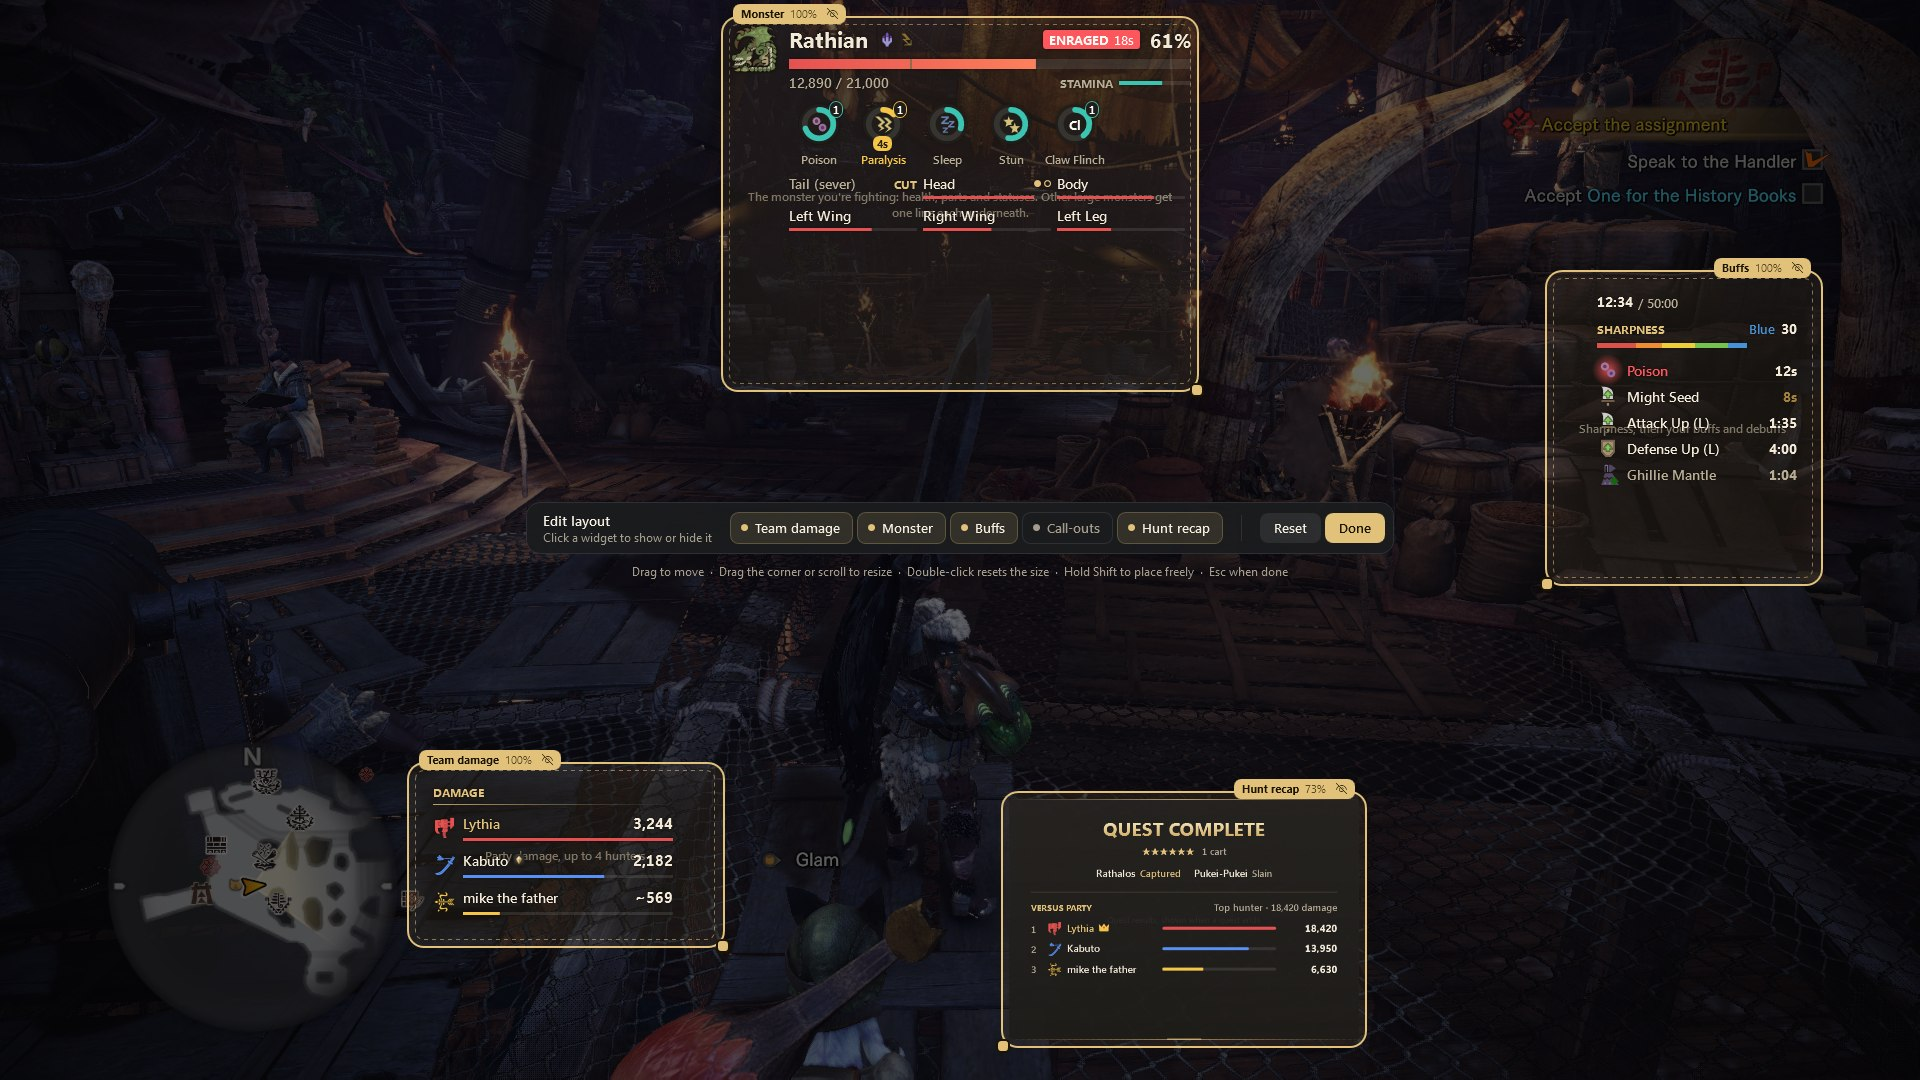
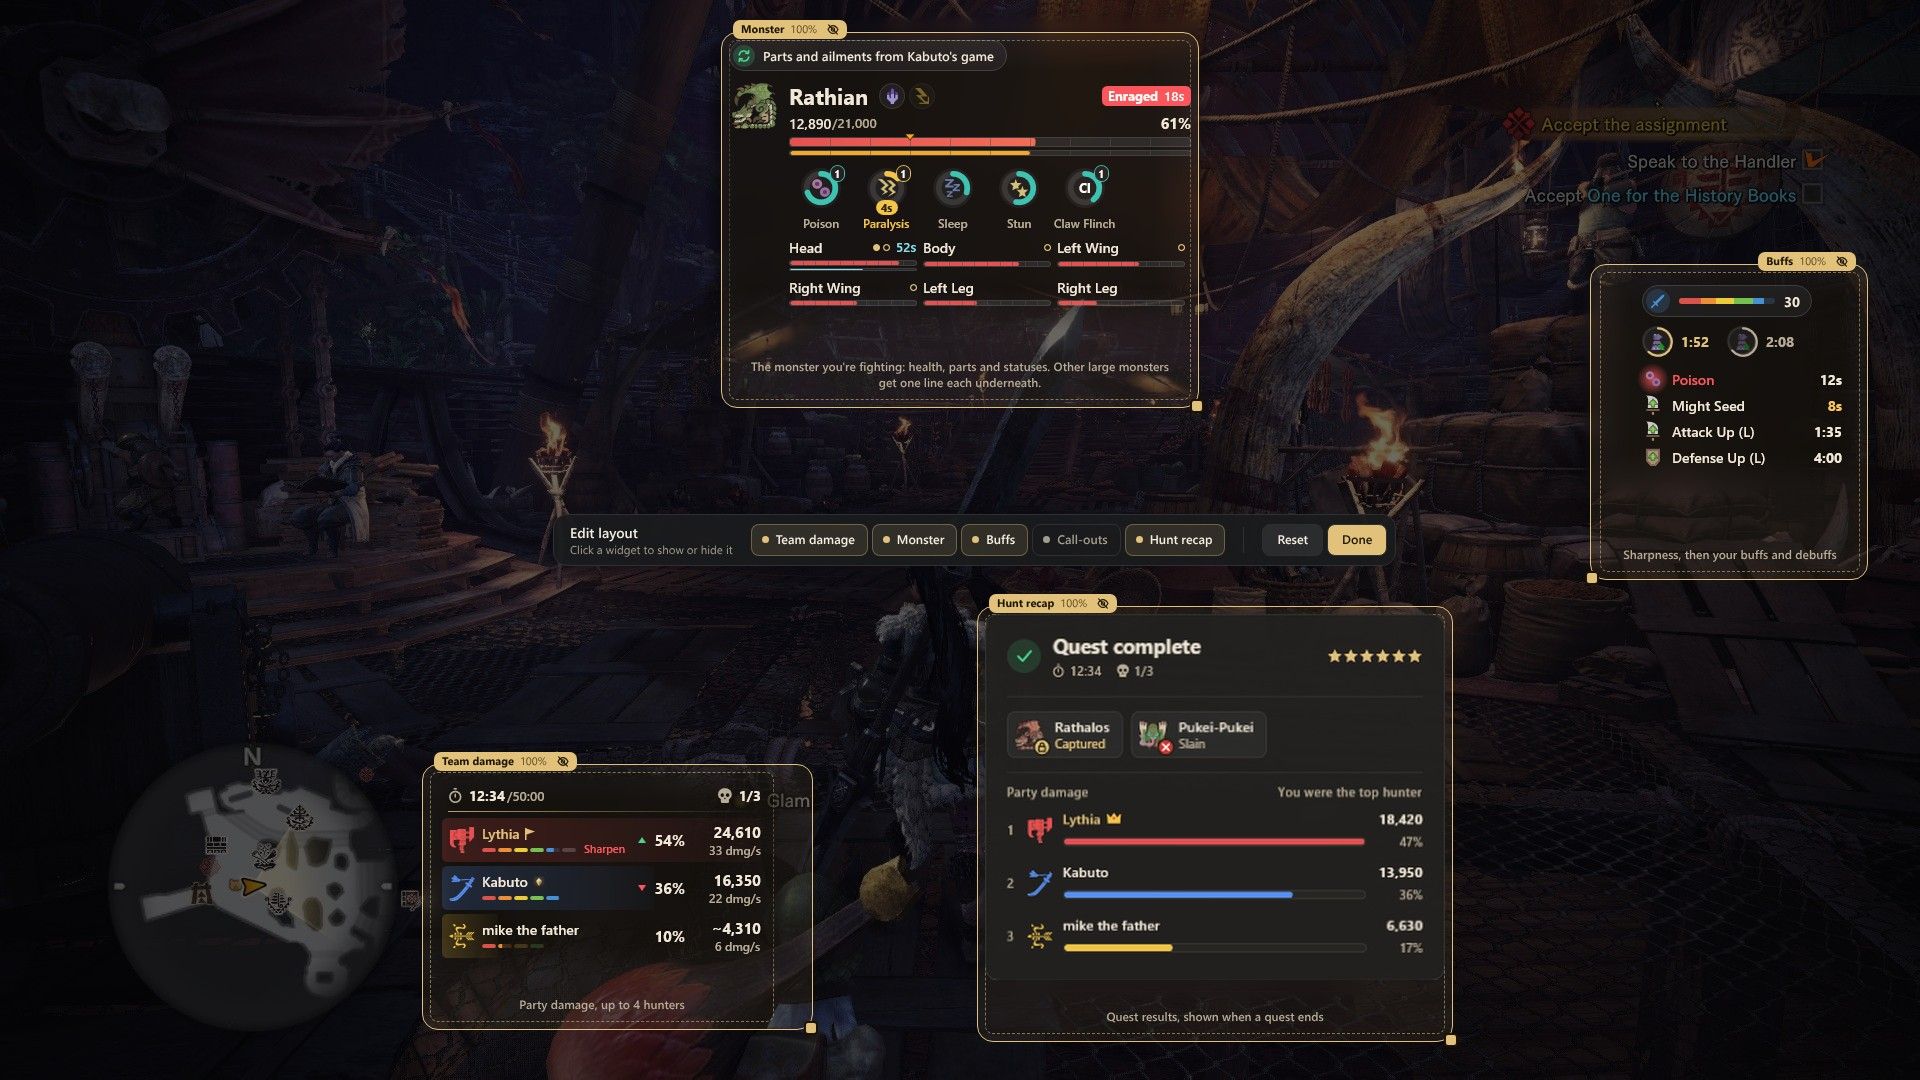
Sync notice and Buffs sharpness as compact pills, Senji in the sharpen roasts, refreshed screenshots

diff --git a/SmartHunter/Ui/Resources/Default.xaml b/SmartHunter/Ui/Resources/Default.xaml
@@ -834,6 +834,9 @@
     <!--Team Widget: one row per hunter, drawn straight onto the game. After HunterPie's damage meter: weapon, name, the share with an arrow for where it's heading, damage and damage per second. The row fills with the
         hunter's colour as far as their damage reaches against the top hunter.-->
 
+    <!--Two arrows chasing each other (synced) and an exclamation mark (estimate), drawn as strokes in a 14px box-->
+    <Geometry x:Key="G_Sync">M2.2,6 A5,5 0 0 1 11.3,4.2 M11.8,1.6 L11.5,4.5 L8.6,4.2 M11.8,8 A5,5 0 0 1 2.7,9.8 M2.2,12.4 L2.5,9.5 L5.4,9.8</Geometry>
+    <Geometry x:Key="G_Alert">M7,3 L7,8 M7,10.9 L7,11</Geometry>
     <Geometry x:Key="G_Stopwatch">M6.5,0.5 L9.5,0.5 L9.5,2 L6.5,2 Z M8,3 A6,6 0 1 1 7.99,3 Z M8,4.6 A4.4,4.4 0 1 0 8.01,4.6 Z M7.3,6 L8.7,6 L8.7,9.6 L7.3,9.6 Z</Geometry>
     <GeometryGroup x:Key="G_Skull" FillRule="EvenOdd">
         <PathGeometry Figures="M8,1 C4.2,1 1.6,3.6 1.6,7 C1.6,9.1 2.6,10.6 4.2,11.5 L4.2,13.8 C4.2,14.5 4.7,15 5.4,15 L10.6,15 C11.3,15 11.8,14.5 11.8,13.8 L11.8,11.5 C13.4,10.6 14.4,9.1 14.4,7 C14.4,3.6 11.8,1 8,1 Z" />
@@ -1194,25 +1197,20 @@
         </DataTemplate.Triggers>
     </DataTemplate>
 
-    <!--Sharpness: the game's colour bands, hits left in the current colour-->
+    <!--Sharpness as one pill, the size of the mantle rings: a blade in the current colour, the game's colour bands, and
+        hits left in this colour. The number turns amber while the colour runs out and the pill red once you've dropped
+        below this weapon's best colour.-->
+    <Geometry x:Key="G_Blade">M14.5,1.5 L13.7,4.1 L6.9,10.9 L5.1,9.1 L11.9,2.3 Z M3.85,7.63 L8.37,12.15 L7.31,13.21 L2.79,8.69 Z M5.58,11.48 L3.13,13.93 L2.07,12.87 L4.52,10.42 Z M1,13.9 A1.1,1.1 0 1 1 3.2,13.9 A1.1,1.1 0 1 1 1,13.9 Z</Geometry>
     <DataTemplate DataType="{x:Type data:Sharpness}">
-        <StackPanel x:Name="Root" Margin="0 0 0 8">
-            <DockPanel LastChildFill="False">
-                <controls:SharpText x:Name="Label" Text="Sharpness" Style="{StaticResource T_Label}" />
-                <controls:SharpText DockPanel.Dock="Right" Style="{StaticResource T_Value}" MinWidth="0" Text="{Binding HitsLeft}" />
-                <controls:SharpText DockPanel.Dock="Right" Style="{StaticResource T_Muted}" Foreground="{Binding LevelBrush}" Margin="0 0 6 0" Text="{Binding LevelName}" />
-            </DockPanel>
-            <Grid x:Name="Bar" Width="150" Height="6" Margin="0 5 0 0" HorizontalAlignment="Left" behaviors:RoundClip.Radius="-1">
-                <ItemsControl ItemsSource="{Binding Segments}" Opacity="0.22">
-                    <ItemsControl.ItemsPanel>
-                        <ItemsPanelTemplate><StackPanel Orientation="Horizontal" /></ItemsPanelTemplate>
-                    </ItemsControl.ItemsPanel>
-                    <ItemsControl.ItemTemplate>
-                        <DataTemplate><Rectangle Width="{Binding Width}" Height="6" Fill="{Binding Brush}" /></DataTemplate>
-                    </ItemsControl.ItemTemplate>
-                </ItemsControl>
-                <Canvas Width="{Binding FilledWidth}" HorizontalAlignment="Left" ClipToBounds="True">
-                    <ItemsControl ItemsSource="{Binding Segments}">
+        <Border x:Name="Root" HorizontalAlignment="Left" Margin="0 0 0 8" Padding="3 3 11 3" CornerRadius="16"
+                Background="#CC101114" BorderBrush="{StaticResource B_GaugeBorder}" BorderThickness="1">
+            <StackPanel Orientation="Horizontal">
+                <Grid Width="24" Height="24">
+                    <Ellipse x:Name="Disc" Fill="{Binding LevelBrush}" Opacity="0.2" />
+                    <Path x:Name="Blade" Data="{StaticResource G_Blade}" Fill="{Binding LevelBrush}" Width="16" Height="16" HorizontalAlignment="Center" VerticalAlignment="Center" />
+                </Grid>
+                <Grid x:Name="Bar" Width="{x:Static data:Sharpness.BarWidth}" Height="6" Margin="9 0 0 0" VerticalAlignment="Center" behaviors:RoundClip.Radius="-1">
+                    <ItemsControl ItemsSource="{Binding Segments}" Opacity="0.22">
                         <ItemsControl.ItemsPanel>
                             <ItemsPanelTemplate><StackPanel Orientation="Horizontal" /></ItemsPanelTemplate>
                         </ItemsControl.ItemsPanel>
@@ -1220,15 +1218,31 @@
                             <DataTemplate><Rectangle Width="{Binding Width}" Height="6" Fill="{Binding Brush}" /></DataTemplate>
                         </ItemsControl.ItemTemplate>
                     </ItemsControl>
-                </Canvas>
-            </Grid>
-            <controls:SharpText x:Name="Danger" Text="Sharpen" Style="{StaticResource T_Label}" Foreground="{StaticResource B_Danger}" Margin="0 4 0 0" Visibility="Collapsed" />
-        </StackPanel>
+                    <Canvas Width="{Binding FilledWidth}" HorizontalAlignment="Left" ClipToBounds="True">
+                        <ItemsControl ItemsSource="{Binding Segments}">
+                            <ItemsControl.ItemsPanel>
+                                <ItemsPanelTemplate><StackPanel Orientation="Horizontal" /></ItemsPanelTemplate>
+                            </ItemsControl.ItemsPanel>
+                            <ItemsControl.ItemTemplate>
+                                <DataTemplate><Rectangle Width="{Binding Width}" Height="6" Fill="{Binding Brush}" /></DataTemplate>
+                            </ItemsControl.ItemTemplate>
+                        </ItemsControl>
+                    </Canvas>
+                </Grid>
+                <controls:SharpText x:Name="Hits" Style="{StaticResource T_Value}" MinWidth="0" Margin="9 0 0 0" Text="{Binding HitsLeft}" />
+                <controls:SharpText x:Name="Danger" Text="Sharpen" Style="{StaticResource T_Value}" MinWidth="0" Foreground="{StaticResource B_Danger}" Margin="8 0 0 0" Visibility="Collapsed" />
+            </StackPanel>
+        </Border>
         <DataTemplate.Triggers>
             <DataTrigger Binding="{Binding IsAvailable}" Value="False">
                 <Setter TargetName="Root" Property="Visibility" Value="Collapsed" />
             </DataTrigger>
+            <DataTrigger Binding="{Binding IsLow}" Value="True">
+                <Setter TargetName="Hits" Property="Foreground" Value="{StaticResource B_Warn}" />
+            </DataTrigger>
             <DataTrigger Binding="{Binding NeedsSharpening}" Value="True">
+                <Setter TargetName="Root" Property="BorderBrush" Value="{StaticResource B_Danger}" />
+                <Setter TargetName="Hits" Property="Foreground" Value="{StaticResource B_Danger}" />
                 <Setter TargetName="Danger" Property="Visibility" Value="Visible" />
                 <DataTrigger.EnterActions>
                     <BeginStoryboard x:Name="Sharpen" Storyboard="{StaticResource A_Storyboard_Danger}" />
@@ -1236,9 +1250,6 @@
                 <DataTrigger.ExitActions>
                     <StopStoryboard BeginStoryboardName="Sharpen" />
                 </DataTrigger.ExitActions>
-            </DataTrigger>
-            <DataTrigger Binding="{Binding IsLow}" Value="True">
-                <Setter TargetName="Label" Property="Foreground" Value="{StaticResource B_Warn}" />
             </DataTrigger>
         </DataTemplate.Triggers>
     </DataTemplate>
@@ -1261,11 +1272,20 @@
             </Grid.Resources>
             <Border x:Name="Scrim" Background="{StaticResource B_Scrim}" Opacity="{Binding ShadeOpacity, Source={x:Static viewModels:OverlayViewModel.Instance}}" OpacityMask="{StaticResource B_ScrimFeather}" Margin="-24 -12 -24 -12" />
             <StackPanel>
-                <Border x:Name="Notice" Width="462" HorizontalAlignment="Left" Margin="0 0 0 10" Padding="12 8 12 8" CornerRadius="8"
-                        Background="#EB101114" BorderBrush="{StaticResource B_Accent}" BorderThickness="1" Visibility="Collapsed">
+                <!--Where the monster numbers come from: a small pill like the mantle rings, green while they come from the
+                    host's game (or you're the host), amber while they're only your game's estimate-->
+                <Border x:Name="Notice" HorizontalAlignment="Left" MaxWidth="462" Margin="0 0 0 10" Padding="3 3 12 3" CornerRadius="15"
+                        Background="#CC101114" BorderBrush="{StaticResource B_GaugeBorder}" BorderThickness="1" Visibility="Collapsed">
+                    <Border.RenderTransform>
+                        <TranslateTransform />
+                    </Border.RenderTransform>
                     <DockPanel>
-                        <controls:SharpText Text="Sync" Style="{StaticResource T_Label}" Foreground="{StaticResource B_Accent}" DockPanel.Dock="Left" VerticalAlignment="Top" Margin="0 1 10 0" />
-                        <controls:SharpText Text="{Binding Notice}" Style="{StaticResource T_Body}" TextWrapping="Wrap" />
+                        <Grid DockPanel.Dock="Left" Width="22" Height="22" VerticalAlignment="Top" Margin="0 0 8 0">
+                            <Ellipse x:Name="NoticeDisc" Fill="{StaticResource B_Up}" Opacity="0.2" />
+                            <Path x:Name="NoticeIcon" Data="{StaticResource G_Sync}" Stroke="{StaticResource B_Up}" StrokeThickness="1.5" Width="14" Height="14"
+                                  StrokeStartLineCap="Round" StrokeEndLineCap="Round" StrokeLineJoin="Round" HorizontalAlignment="Center" VerticalAlignment="Center" />
+                        </Grid>
+                        <controls:SharpText Text="{Binding Notice}" Style="{StaticResource T_Body}" FontSize="13" TextWrapping="Wrap" Margin="0 3 0 3" />
                     </DockPanel>
                 </Border>
                 <ItemsControl x:Name="MonstersControl" ItemsSource="{Binding Source={StaticResource CollectionViewSource}}" />
@@ -1277,6 +1297,20 @@
             </Trigger>
             <DataTrigger Binding="{Binding Notice, Converter={StaticResource A_Converter_IsNotNull}}" Value="True">
                 <Setter TargetName="Notice" Property="Visibility" Value="Visible" />
+                <DataTrigger.EnterActions>
+                    <BeginStoryboard>
+                        <Storyboard>
+                            <DoubleAnimation Storyboard.TargetName="Notice" Storyboard.TargetProperty="Opacity" From="0" To="1" Duration="0:0:0.22" EasingFunction="{StaticResource E_Out}" />
+                            <DoubleAnimation Storyboard.TargetName="Notice" Storyboard.TargetProperty="(UIElement.RenderTransform).(TranslateTransform.Y)" From="-4" To="0" Duration="0:0:0.26" EasingFunction="{StaticResource E_Out}" />
+                        </Storyboard>
+                    </BeginStoryboard>
+                </DataTrigger.EnterActions>
+            </DataTrigger>
+            <DataTrigger Binding="{Binding IsNoticeWarning}" Value="True">
+                <Setter TargetName="NoticeDisc" Property="Fill" Value="{StaticResource B_Warn}" />
+                <Setter TargetName="NoticeIcon" Property="Data" Value="{StaticResource G_Alert}" />
+                <Setter TargetName="NoticeIcon" Property="Stroke" Value="{StaticResource B_Warn}" />
+                <Setter TargetName="NoticeIcon" Property="StrokeThickness" Value="1.8" />
             </DataTrigger>
             <!--Nothing to show: no shade either-->
             <DataTrigger Binding="{Binding HasVisibleMonsters}" Value="False">

diff --git a/SmartHunter/Game/Data/SharpenAlert.cs b/SmartHunter/Game/Data/SharpenAlert.cs
@@ -4,7 +4,7 @@ using SmartHunter.Core.Data;
 namespace SmartHunter.Game.Data
 {
     // A friend's weapon kept running at red and orange mid-hunt, and the small bar was never enough. For the hunter whose
-    // character is named Senji (the roasts call him Simeon, his real name), sharpness that is far below what the weapon reaches puts a huge bar and a roast at the top of the screen
+    // character is named Senji, sharpness that is far below what the weapon reaches puts a huge bar and a roast at the top of the screen
     // (SharpenAlertWindow) until he sharpens. It's a gag: impossible to miss, impossible to sit through, and it gets
     // meaner the longer he ignores it, while the click-through window leaves the game playable underneath.
     // Hardcoded on purpose; it only ever looks at the local player's own name.
@@ -34,14 +34,14 @@ namespace SmartHunter.Game.Data
         public const int SecondsPerStage = 20;
         static readonly string[] Headlines =
         {
-            "SIMEON. YOUR WEAPON IS A SPOON.",
-            "THE MONSTER IS LAUGHING AT YOU, SIMEON.",
-            "SIMEON'S WEAPON HAS FILED A COMPLAINT.",
-            "THIS IS AN INTERVENTION, SIMEON.",
-            "THAT'S NOT A WEAPON, SIMEON, THAT'S A VIBE.",
-            "WE CAN HEAR THE BONK FROM HERE, SIMEON.",
-            "BREAKING NEWS: SIMEON FORGETS WHETSTONE (AGAIN).",
-            "SIMEON, YOU ARE HITTING IT WITH A BUTTER KNIFE.",
+            "SENJI. YOUR WEAPON IS A SPOON.",
+            "THE MONSTER IS LAUGHING AT YOU, SENJI.",
+            "SENJI'S WEAPON HAS FILED A COMPLAINT.",
+            "THIS IS AN INTERVENTION, SENJI.",
+            "THAT'S NOT A WEAPON, SENJI, THAT'S A VIBE.",
+            "WE CAN HEAR THE BONK FROM HERE, SENJI.",
+            "BREAKING NEWS: SENJI FORGETS WHETSTONE (AGAIN).",
+            "SENJI, YOU ARE HITTING IT WITH A BUTTER KNIFE.",
         };
         static readonly string[] Escalation =
         {
@@ -49,7 +49,7 @@ namespace SmartHunter.Game.Data
             "Still going? The bar says no.",
             "Your teammates can see this bar too, you know.",
             "The monster sent a thank-you note.",
-            "Simeon. Please. The bar is begging.",
+            "Senji. Please. The bar is begging.",
             "At this point it's a bit. Sharpen anyway.",
         };
 

diff --git a/SmartHunter/Game/Helpers/MhwHelper.cs b/SmartHunter/Game/Helpers/MhwHelper.cs
@@ -1149,7 +1149,7 @@ namespace SmartHunter.Game.Helpers
                 if (sync && game.playersCheckDone)
                 {
                     kind = "host";
-                    text = "You're the host. Sharing monster data with your party.";
+                    text = "You're the host, sharing monster data with your party";
                 }
             }
             else
@@ -1168,7 +1168,7 @@ namespace SmartHunter.Game.Helpers
                         leader.UsesAether = true;
                     }
                     kind = "synced";
-                    text = $"Getting parts and ailments from {host}'s game.";
+                    text = $"Parts and ailments from {host}'s game";
                     s_SyncedKey = game.key;
                 }
                 // Once the host's data came through in this lobby, stay quiet: a calm minute with no part changes
@@ -1181,8 +1181,8 @@ namespace SmartHunter.Game.Helpers
                     kind = "estimate";
                     seconds = 12;
                     text = sync
-                        ? $"{host} isn't sharing data (they need Aether with party sync on). Parts and ailments are your game's estimate and can be off."
-                        : "Party sync is off, so parts and ailments are your game's estimate and can be off. Turn it on in Settings > Party sync.";
+                        ? $"{host} isn't syncing, so parts and ailments are estimates. They need Aether with party sync on."
+                        : "Party sync is off, so parts and ailments are estimates. Turn it on in Settings > Party sync.";
                 }
             }
 
@@ -1190,7 +1190,7 @@ namespace SmartHunter.Game.Helpers
             if (kind != null && key != s_NoticeKey)
             {
                 s_NoticeKey = key;
-                context.ShowNotice(text, seconds);
+                context.ShowNotice(text, seconds, kind == "estimate");
                 Log.WriteLine(text);
             }
         }

diff --git a/SmartHunter/Game/Data/WidgetContexts/MonsterWidgetContext.cs b/SmartHunter/Game/Data/WidgetContexts/MonsterWidgetContext.cs
@@ -75,11 +75,19 @@ namespace SmartHunter.Game.Data.WidgetContexts
             get { return m_Notice; }
             private set { SetProperty(ref m_Notice, value); }
         }
-        // Its own timer, so the banner always goes away even when nothing else updates the widget
+        // The data is only your game's estimate: the pill turns amber instead of green
+        bool m_IsNoticeWarning;
+        public bool IsNoticeWarning
+        {
+            get { return m_IsNoticeWarning; }
+            private set { SetProperty(ref m_IsNoticeWarning, value); }
+        }
+        // Its own timer, so the notice always goes away even when nothing else updates the widget
         System.Windows.Threading.DispatcherTimer m_NoticeTimer;
 
-        public void ShowNotice(string text, double seconds)
+        public void ShowNotice(string text, double seconds, bool isWarning = false)
         {
+            IsNoticeWarning = isWarning;
             Notice = text;
             if (m_NoticeTimer == null)
             {

diff --git a/SmartHunter/Game/Data/ViewModels/OverlayViewModel.cs b/SmartHunter/Game/Data/ViewModels/OverlayViewModel.cs
@@ -228,7 +228,7 @@ namespace SmartHunter.Game.Data.ViewModels
             Status("Rage", null, 0, 18, 2);
             Status("Stamina", null, 180, 30, 0);
             rathian.CaptureFraction = 0.3f;
-            MonsterWidget.Context.ShowNotice("Getting parts and ailments from Kabuto's game.", 8);
+            MonsterWidget.Context.ShowNotice("Parts and ailments from Kabuto's game", 8);
             MonsterWidget.Context.UpdateAndGetMonster(2, "em007_00", 18000, 15100, 1, 1);
             MonsterWidget.Context.UpdateAndGetMonster(4, "em044_00", 12000, 4200, 1, 1);
             MonsterWidget.Context.UpdateFocus(0);

diff --git a/SmartHunter/Game/Data/Sharpness.cs b/SmartHunter/Game/Data/Sharpness.cs
@@ -16,7 +16,7 @@ namespace SmartHunter.Game.Data
     // Thresholds are cumulative upper bounds per colour (red..purple), as in HunterPie's MHWGameUtils.
     public class Sharpness : Bindable
     {
-        public const double BarWidth = 150;
+        public const double BarWidth = 96;
 
         static readonly Color[] Colors =
         {

diff --git a/README.md b/README.md
@@ -52,6 +52,8 @@ To remove it, uninstall it like any app: **Settings > Apps**, or Control Panel. 
 - Weaknesses, crowns, tenderized parts, and a gold marker on the health bar where the monster can be captured
 - Follows the monster you **lock onto**, or the one you pin on the map
 - Turf wars and double hunts get a compact line for the other monster
+- In a party, a small pill on top says where the part and ailment numbers come from: green when they're synced from the host's
+  game, amber when they're only your game's estimate
 
 <br clear="right"/>
 
@@ -75,7 +77,8 @@ To remove it, uninstall it like any app: **Settings > Apps**, or Control Panel. 
 <img src="docs/buffs-widget.png" alt="Buffs widget" align="right" width="280"/>
 
 - Quest clock, when the team damage widget isn't showing it (hidden, or hunting solo)
-- Sharpness with hits left until the next level
+- **Sharpness** in one compact pill: a blade in your current colour, the game's colour bands, and hits left in that colour. The number
+  turns amber as the colour runs out, and the pill turns red with "Sharpen" once you drop below your weapon's best colour
 - **Mantles and boosters** with time left and a bar: gold and draining while on, grey and filling back up while they recharge
 - Buffs, debuffs and weapon timers (Charge Blade, Insect Glaive, Long Sword, Switch Axe) with time left
 
@@ -85,7 +88,7 @@ To remove it, uninstall it like any app: **Settings > Apps**, or Control Panel. 
 
 <img src="docs/sharpen-alert.png" alt="The sharpen reminder" width="560"/>
 
-A gag, hardcoded for one hunter, Simeon: when his weapon is way too dull for a hunt, a huge hazard-taped bar takes over the top of his
+A gag, hardcoded for one hunter, Senji: when his weapon is way too dull for a hunt, a huge hazard-taped bar takes over the top of his
 screen and roasts him, a bit meaner every 20 seconds, until he sharpens. It doesn't take the mouse, so the game stays playable
 underneath.
 

diff --git a/CLAUDE.md b/CLAUDE.md
@@ -159,6 +159,9 @@ unreleased. Internal-only changes (docs, build scripts) don't need one.
   a bar animated through `Width` (a full widget-window layout every frame). Never use `LayoutUpdated` in overlay
   controls, and animate only render properties (opacity, render transforms, clips).
 - Overlay text has no eyebrows (small bold capitals): labels are sentence case in `T_Label`. Keep it that way.
+- Small status pieces in widgets are pills like the mantle rings: `#CC101114` fill, `B_GaugeBorder` edge, an icon in a tinted
+  circle, then terse text. The monster widget's sync notice (`MonsterWidgetContext.ShowNotice`, green, amber when `isWarning`) and the
+  Buffs sharpness are built that way; the old gold-bordered "Sync" box looked like leftover debug UI.
 - Shortcuts are rebound in Settings > Keyboard (`KeyBinder`): the next key from the global hook is taken, Esc cancels.
 - Each widget's "Show widget" switch also decides whether its data is read (`MhwMemoryUpdater.UpdateMemory`), and
   party sync sends what was read. Exception: with party sync on, damage and monsters are read even with their widgets
